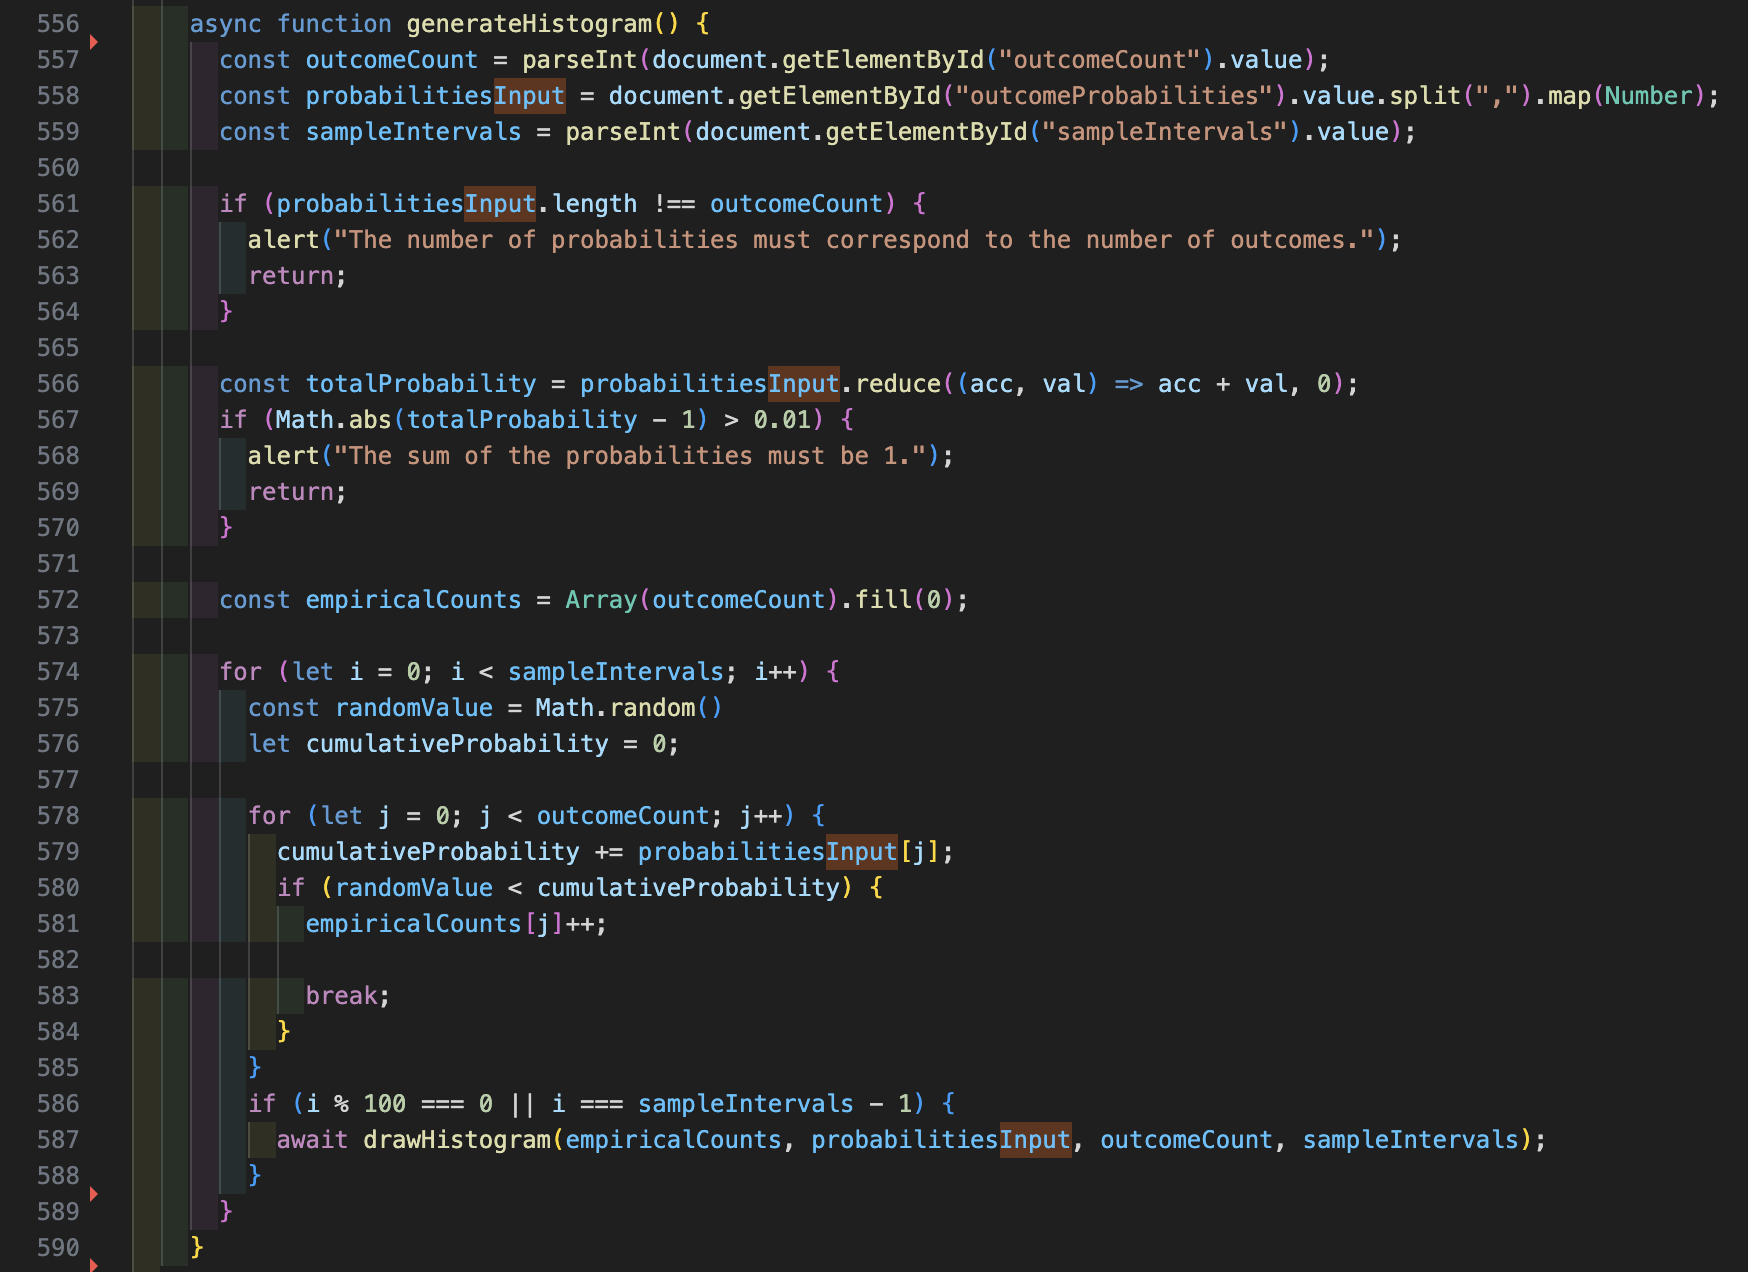
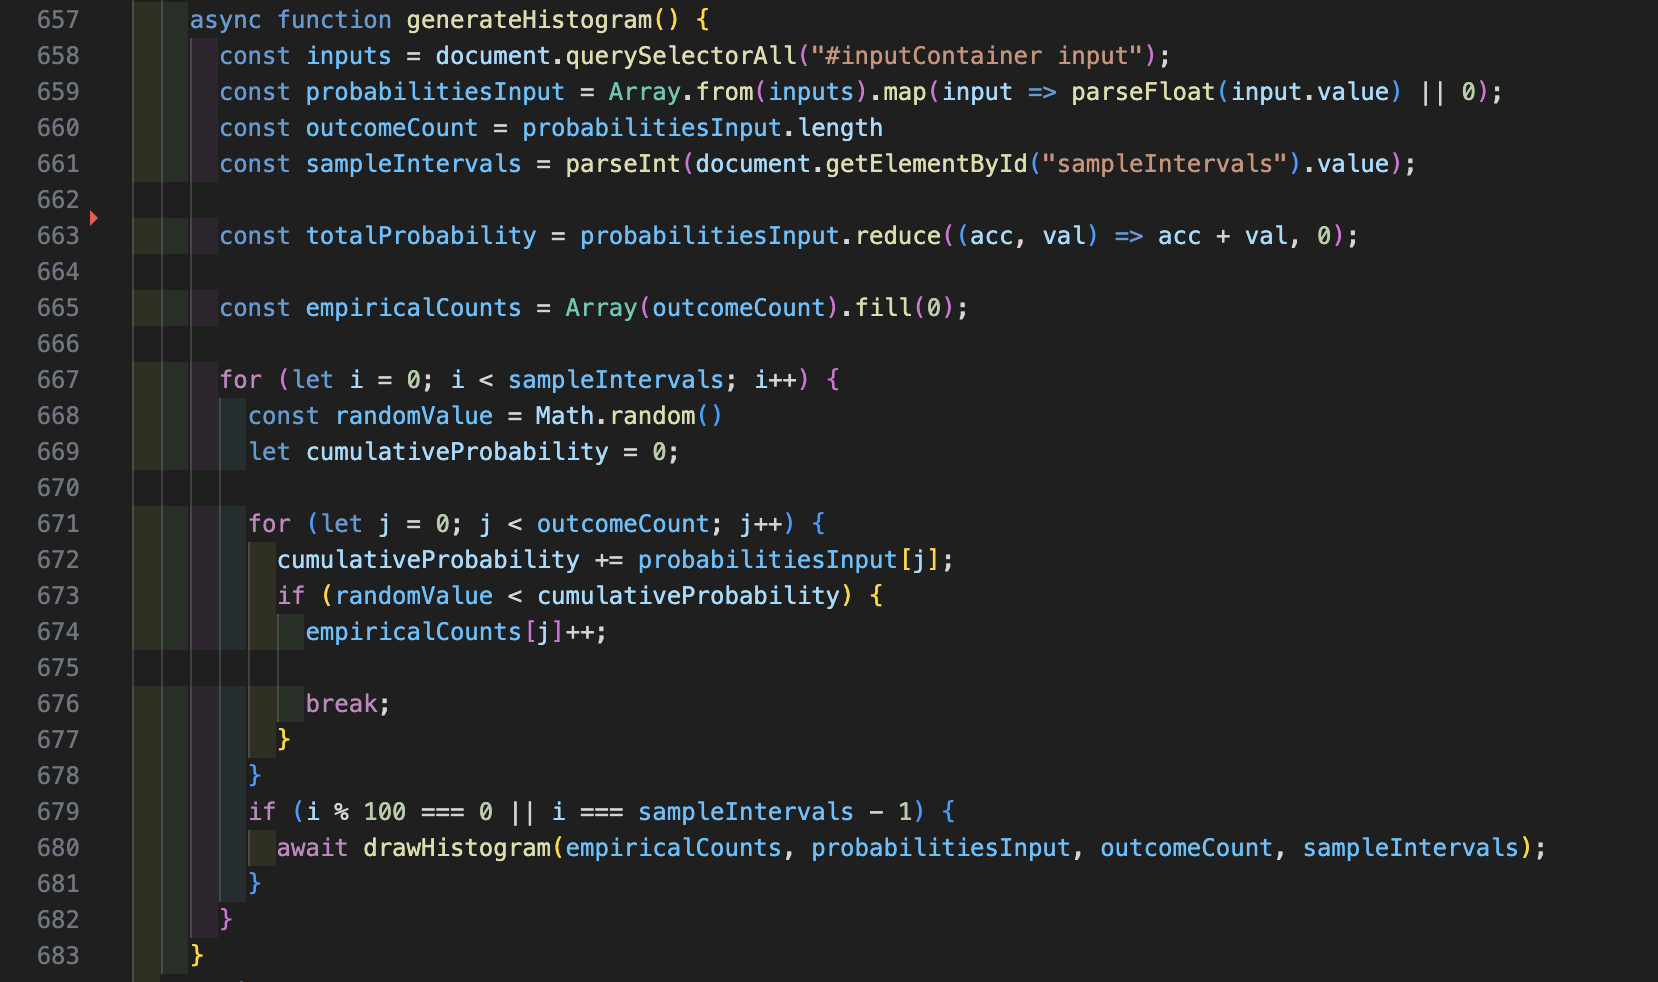
updated code explanatioN

diff --git a/hw6/hw6_practice.html b/hw6/hw6_practice.html
@@ -468,7 +468,7 @@
       </p>
       <h1>Code Explanation</h1>
       <h2>Generating Chart</h2>
-      <p>The generateHistorigram() function is responsible for collecting and validating the input in order to draw the
+      <p>The generateHistorigram() function is responsible for collecting the input in order to draw the
         distribution historigram. In fact it simply generate a random number for each interval specified by the user and
         assign it to an outcome based on it's probability. Every 100 interval it draws the graph in order to give it an
         animation</p>
@@ -659,11 +659,6 @@ function generateRandomProbabilities(numFields) {
 			const probabilitiesInput = Array.from(inputs).map(input => parseFloat(input.value) || 0);
       const outcomeCount = probabilitiesInput.length
       const sampleIntervals = parseInt(document.getElementById("sampleIntervals").value);
-
-      if (probabilitiesInput.length !== outcomeCount) {
-        alert("The number of probabilities must correspond to the number of outcomes.");
-        return;
-      }
 
       const totalProbability = probabilitiesInput.reduce((acc, val) => acc + val, 0);
 
